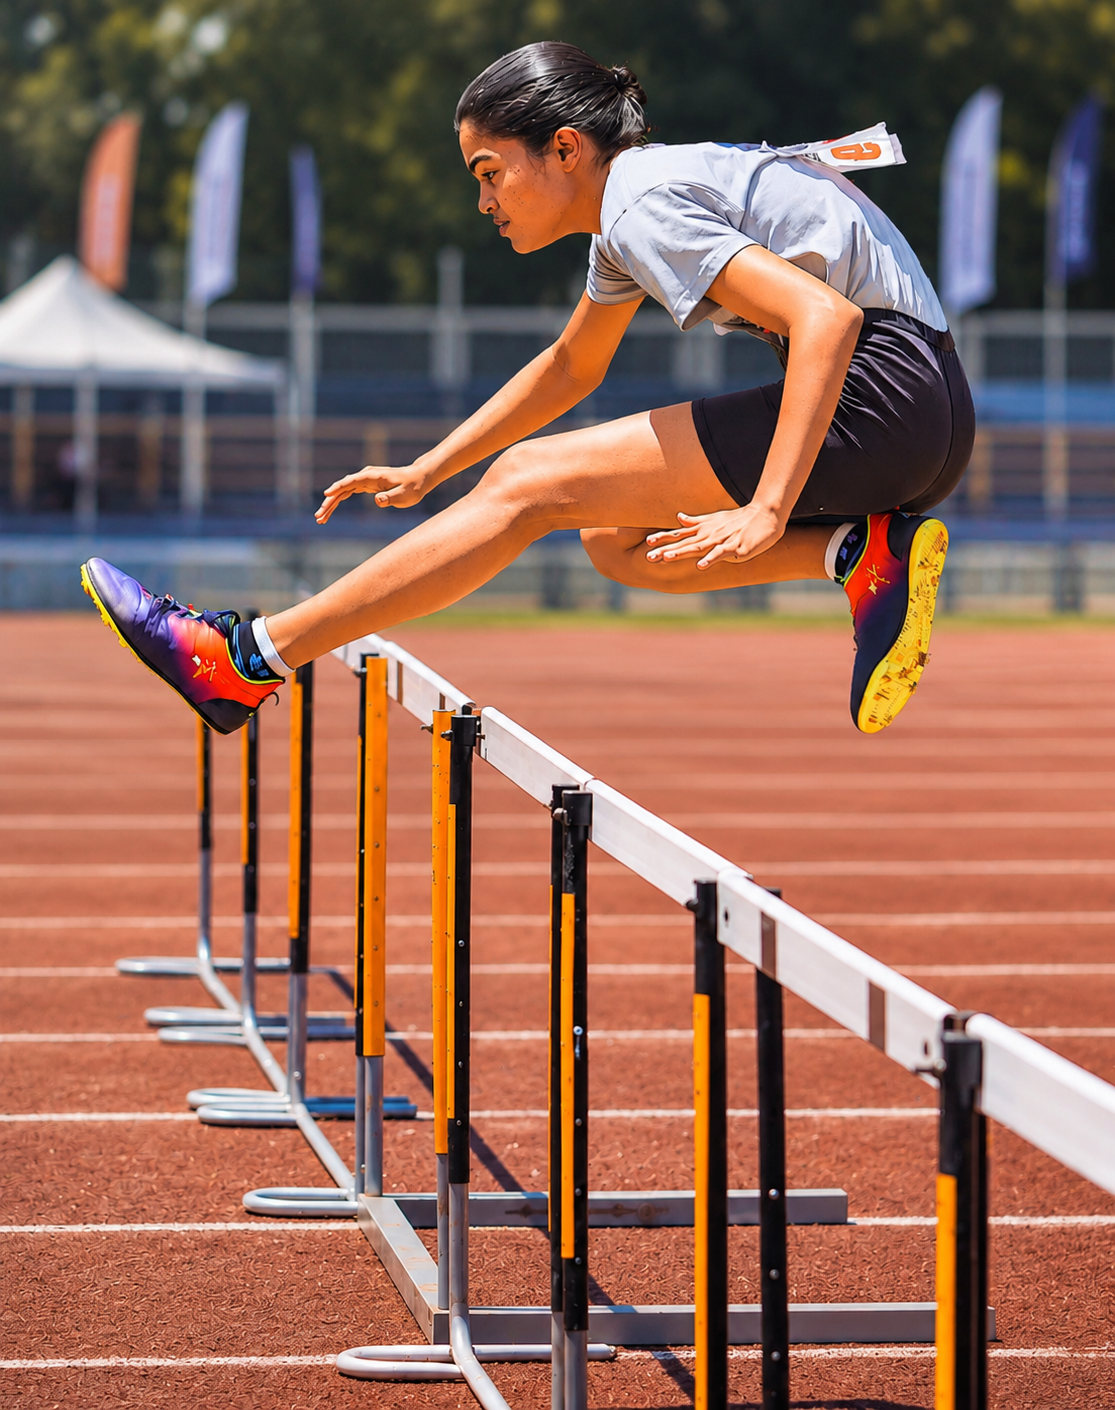
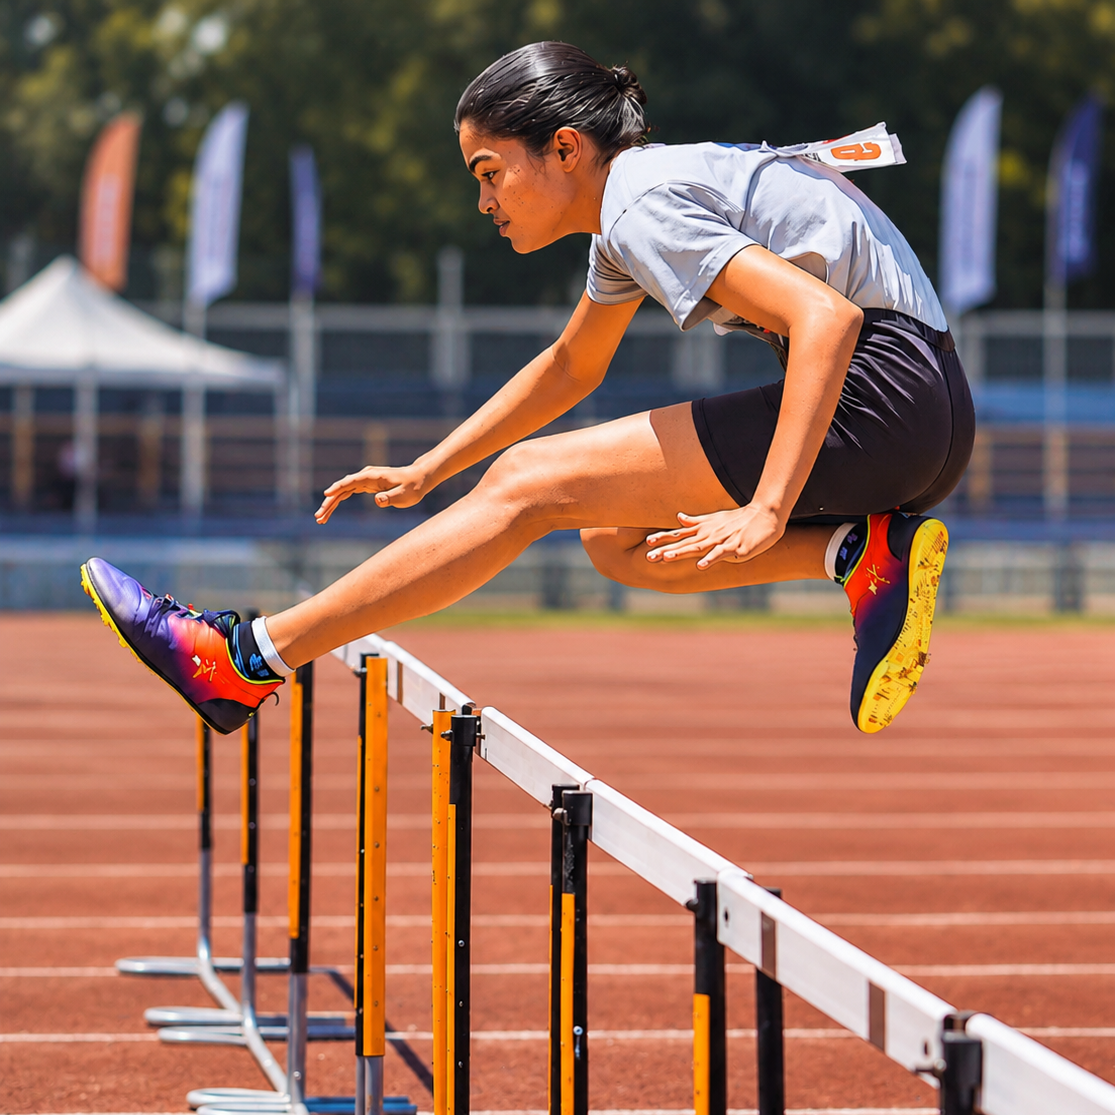
Removed Age limit

diff --git a/frontend/web/src/app/page.tsx b/frontend/web/src/app/page.tsx
@@ -103,10 +103,6 @@ export default function HomePage() {
                     alt="28th VTU State Athletics Torchbearer Sprinting with the Championship Flame"
                     className="hero-torchbearer-img"
                   />
-                  <div className="hero-torchbearer-badge">
-                    <span className="torchbearer-badge-dot" aria-hidden="true" />
-                    <span>CHAMPIONSHIP FLAME OF EXCELLENCE</span>
-                  </div>
                 </div>
               </div>
             </div>
